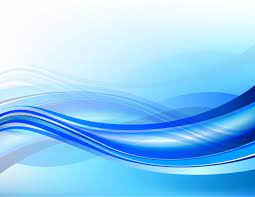
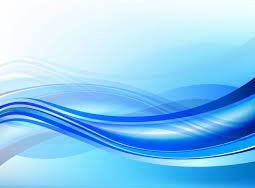
fixed sizing problems

Changed region(s): [[0.0, 0.3723, 1.0, 0.8511], [0.9059, 0.1862, 1.0, 0.266]]

diff --git a/index.html b/index.html
@@ -1,73 +1,73 @@
 <!DOCTYPE html>
 <html lang="en">
-<head>
-    <meta charset="UTF-8">
-    <meta http-equiv="X-UA-Compatible" content="IE=edge">
-    <meta name="viewport" content="width=device-width, initial-scale=1.0">
-    <title>My Portfolio</title>
-    <link rel="stylesheet" href="mystyle.css">
-</head>
-<body>
-    <Header class="header">
-        <h1>My Portfolio</h1>
-
-    <div class="nav-link">
-        <a href="#about">About Me</a>
-        <a href="#box2">Work</a>
-        <a href="#contact">Contact Me</a>
-        <a href="#">Resume</a>
-    </div>
-    </Header>
-<main>
-    <div class="design">
-        <section id="cool-sub-title">
-            Christopher Gould
-        </section> 
-     </div>
-<div>
-    <div class="row">
-        <div class="about" id="about"><section class="box">About Me</section>
-        <p class="about-bio">My life started in Columbus Ohio, Where for most of my life I have remained.  I currently live in Grove City, which is just southwest of Columbus.  It is a small city, but I love it and out side of 7 years that I live in Pataskala, that is where I have been.  I am married and have been with my wife for of 20 years, 16 of them we have been married.  We have 2 children, A 13 year old boy and a 10 year old girl.  We spend our spare time with the kids watch them play various sports. (volleyball, baseball, soccer, basketball and track). At home we have 3 dogs and a cat.
-        </p>
-    </div>
-</div>
-</div>
-<div>
-    <div>
-        <div class="work"><span>Work</span>
-            <div class="box2" id="box2">
-                <div class="pictures1">
-                    <a href="#"><img src="Images/back 1.jpeg" alt="blue waves"></a>
-                </div>
-                <div class="pictures2">
-                    <a href="#"><img src="Images/back2.jpeg" alt="blue image"></a>
-                    <a href="#"><img src="Images/back3.jpeg" alt="blue peace"></a>
-                </div>
-                <div class="pictures4">
-                    <a href="#"><img src="Images/back4.jpeg" alt="blueness"></a>
-                    <a href="#"><img src="Images/back5.jpeg" alt="blue and white"></a>
+    <head>
+        <meta charset="UTF-8">
+        <meta http-equiv="X-UA-Compatible" content="IE=edge">
+        <meta name="viewport" content="width=device-width, initial-scale=1.0">
+        <title>My Portfolio</title>
+        <link rel="stylesheet" href="mystyle.css">
+    </head>
+    <body>
+        <header class="header">
+            <h1>My Portfolio</h1>
+            <div class="nav-link">
+                <a href="#about">About Me</a>
+                <a href="#box2">Work</a>
+                <a href="#contact">Contact Me</a>
+                <a href="#">Resume</a>
+            </div>
+        </header>
+        <main>
+            <div class="design">
+                <section id="cool-sub-title">Christopher Gould</section>
+            </div>
+            <div class="row">
+                <div class="about" id="about">
+                    <section class="box">About Me</section>
+                    <div class="about-bio">
+                        My life started in Columbus Ohio, Where for most of my life I have remained.  
+                        I currently live in Grove City, which is just southwest of Columbus.  
+                        It is a small city, but I love it and out side of 7 years that I live in Pataskala, 
+                        that is where I have been.  I am married and have been with my wife for of 20 years, 
+                        16 of them we have been married.  We have 2 children, A 13 year old boy and a 10 
+                        year old girl.  We spend our spare time with the kids watching them play various sports. 
+                        (volleyball, baseball, soccer, basketball and track). At home we have 3 dogs and a cat.
+                    </div>
                 </div>
             </div>
-        </div>
-    </div>
-</div>
-<div>
-    <div class="row1">
-        <div class="contact" id="contact">
-            <section class="box3">
-                Contact Me
-            </section>
-        <ul class="contact-info"> 
-            <a href="#">555.555.5555 <a href="#">Email</a> <a href="#">Spotify</a> <a href="#">Twitter</a></ul>
-    </div>
-</div>
-</main>
-<footer class="footer">
-    Made with ❤ by Horiseon
-    <h3>© 2019 Horiseon Social Solution Services, Inc.</h3>
-
-</footer>
-
-</body>
-
+            <div class="row">
+                <div class="work" id="work">
+                    <section class="box">Work</section>
+                    <div class="work2">
+                        <div class="pictures1">
+                            <a href="#"><img src="Images/back 1.jpeg" alt="blue waves"></a>
+                        </div>
+                        <div class="pictures2">
+                            <a href="#"><img src="Images/back2.jpeg" alt="blue image"></a>
+                            <a href="#"><img src="Images/back3.jpeg" alt="blue peace"></a>
+                        </div>
+                        <div class="pictures4">
+                            <a href="#"><img src="Images/back4.jpeg" alt="blueness"></a>
+                            <a href="#"><img src="Images/back5.jpeg" alt="blue and white"></a>
+                        </div>
+                    </div>
+                </div>
+            </div>            
+            <div class="row">
+                <div class="contact" id="contact">
+                    <section class="box">Contact Me</section>
+                    <div class="contact-info">
+                        <span><a href="#">555.555.5555</a></span> 
+                        <span><a href="#">Email</a></span>
+                        <span><a href="#">Spotify</a></span> 
+                        <span><a href="#">Twitter</a></span>
+                    </div>
+                </div>
+            </div>
+        </main>
+        <footer class="footer">
+            Made with ❤ by Horiseon
+            <h3>© 2019 Horiseon Social Solution Services, Inc.</h3>
+        </footer>
+    </body>
 </html>

diff --git a/mystyle.css b/mystyle.css
@@ -1,3 +1,6 @@
+html {
+    width:fit-content;
+}
 header{ /*header display*/
     display: flex;
     flex-wrap: wrap;
@@ -45,20 +48,19 @@ a:hover { /*link hove color change*/
     background-color: darkblue;
 }
 
-.design{ /*backgrond design space break*/
+.design { /*backgrond design space break*/
     display: flex;
     flex-wrap: wrap;
-    height:400px;
+    height: 200px;
     width: 100%;
-    background-image: url(Images/modern-banner-with-abstract-low-poly-design_1048-14340.avif);
+    background-image: url("Images/modern-banner-with-abstract-low-poly-design_1048-14340.png");
     background-size: cover;
 }
 
 #cool-sub-title{ /*name postioning font size*/
     display: flex;
     flex-wrap: wrap;
-    position: absolute;
-    bottom: 55%;
+    position: absolute;    
     right: 5%;
     font-size: 30px;
 }
@@ -69,54 +71,51 @@ a:hover { /*link hove color change*/
     flex-wrap: wrap;
 }
 
-.about{ /*about me text font display size*/
+.about { /*about me text font display size*/
     display: flex;
-    font-size: 50px;
+    flex-direction: row;
     justify-content: start;
     text-align: right;
-    margin-left: 50px;
+    margin-left: 20px;
     color: rgb(46, 42, 69);
 }
 
 .about-bio{ /*text area for bio*/
-    font-size: 25px;
-    text-align: center;
-    margin-top: 20px;
-    margin-left: 200px;
-    margin-right: 200px;
+    text-align: justify;    
+    font-size:1.5em;
+    padding: 20px;
+    width:61%;
 }
 
 .box{ /*line for work box*/
-    Border:solid;
+    font-size:1.7em;
+    border:solid;
     border-width: 10px;
     border-bottom: hidden;
     border-top: hidden;
     border-left: hidden;
     padding: 20px;
     margin: 10px;
+    width:100px;
 }
 
-.work{ /*work text display and margins*/
+.work { /*work text display and margins*/
     display: flex;
-    font-size: 50px;
-    text-align: center;
-    margin-left: 105px;
+    flex-direction: row;
+    justify-content: start;
+    text-align: right;
+    margin-left: 20px;
     color: rgb(46, 42, 69);
 }
 
-.work-box{ /*work area display and margins*/
-    display: flex;
-    flex-wrap: wrap;
-    font-size: 16px;
-    margin-top: 20px;
-    margin-left: 200px;
-    margin-right: 200px;
-    justify-content: center;
+.work2 { /*work2 text display and margins*/
+    width: fit-content;
 }
 
 .pictures1 img{ /*top link image sizing*/
-    width: 1200px;
-    height: 400px;
+    max-height:100%;
+    min-width:100%;
+    object-fit:cover;    
     margin: 20px;
     border: solid lightblue;
 }
@@ -126,22 +125,24 @@ a:hover { /*link hove color change*/
     flex-direction: row;
 }
 
-.pictures2 img{ /*link picture sizing middle*/
-    width: 600px;
-    height: 200px;
-    margin: 10px;
+.pictures2 img { /*link picture sizing middle*/
+    max-height: 100%;
+    min-width: 100%;
+    object-fit: cover;
+    margin: 20px;
     border: solid lightblue;
 }
 
-.pictures4{ /*diplay link picture bottom 2*/
-   display: flex;
-   flex-wrap: wrap;
+.pictures4 { /*diplay link picture bottom 2*/
+    display: flex;
+    flex-direction: row;
 }
 
-.pictures4 img{ /*link picture sizing bottom 2*/
-    width: 600px;
-    height: 200px;
-    margin: 10px;
+.pictures4 img { /*link picture sizing bottom 2*/
+    max-height: 100%;
+    min-width: 100%;
+    object-fit: cover;
+    margin: 20px;
     border: solid lightblue;
 }
 
@@ -155,13 +156,11 @@ a:hover { /*link hove color change*/
     margin: 10px;
 }
 
-.contact{ /*margins and colors for contacts*/
+.contact { /*margins and colors for contacts*/
     display: flex;
-    font-size: 50px;
+    flex-direction: row;
     justify-content: start;
     text-align: right;
-    height: 200px;
-    width: 100%;
     margin-left: 20px;
     color: rgb(46, 42, 69);
 }
@@ -171,7 +170,7 @@ a:hover { /*link hove color change*/
     border-width: 10px;
     border-bottom: hidden;
     border-top: hidden;
-    border-left: hidden;
+    border-right: hidden;
     padding: 28px;
     width:min-content;
     margin-left: -6px;
@@ -179,13 +178,17 @@ a:hover { /*link hove color change*/
 
 .contact-info{ /*display and font for contact area*/
     display: flex;
-    flex-direction: row;
-    flex-wrap: wrap;
-    font-size: 25px;
-    width: 80%;
+    flex-direction: row;    
+    font-size: 1.5em;    
     justify-content: space-evenly;
     align-items: center;
     color:slategray
+}
+
+.contact-info span {
+    padding: 20px;
+    display: flex;
+    flex-wrap: wrap;
 }
 
 .row1{ /*flex row for contact section*/
@@ -210,7 +213,8 @@ a:hover { /*link hove color change*/
     font-size: 16px;
     font-weight: normal;
 }
-@media screen and (max-width: 992px) {
+/*
+    @media screen and (max-width: 992px) {
     .work {
         width: 50%;
     }
@@ -226,18 +230,20 @@ a:hover { /*link hove color change*/
   }
   
   /* Cards are stacked on top of each other at 768px or smaller */
-  @media screen and (max-width: 768px) {
+/*
+    @media screen and (min-width: 768px) {
     .work {
         width: 50%;
-      }
+         }
     .row1{
           width:50%;
-      }
+         }
     .box3{
           width: 50%;
-      }
-      .row{
-        width: 50%
+         }
+    .row{
+    width: 50%
+        }
     }
-    }
+*/
   
